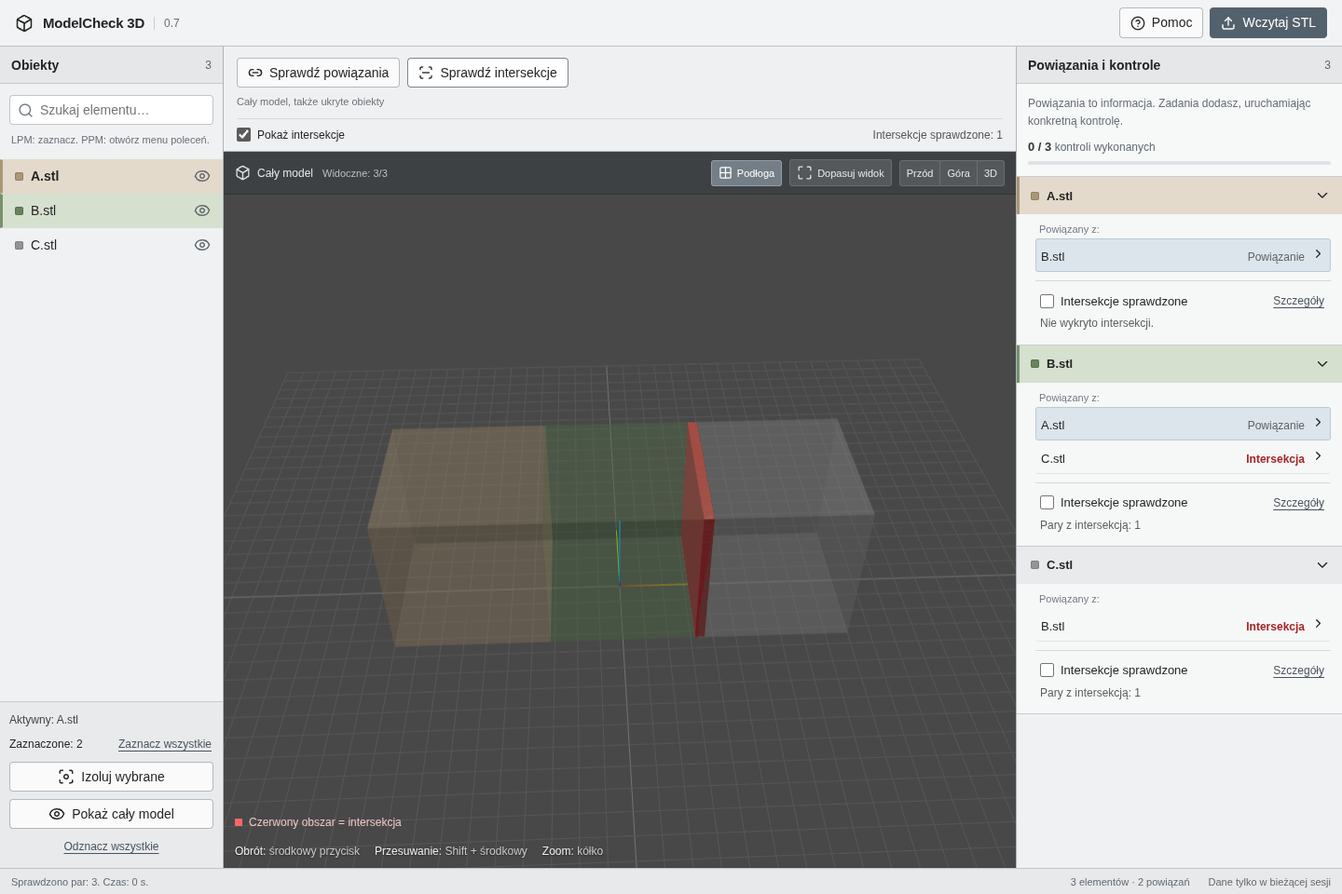
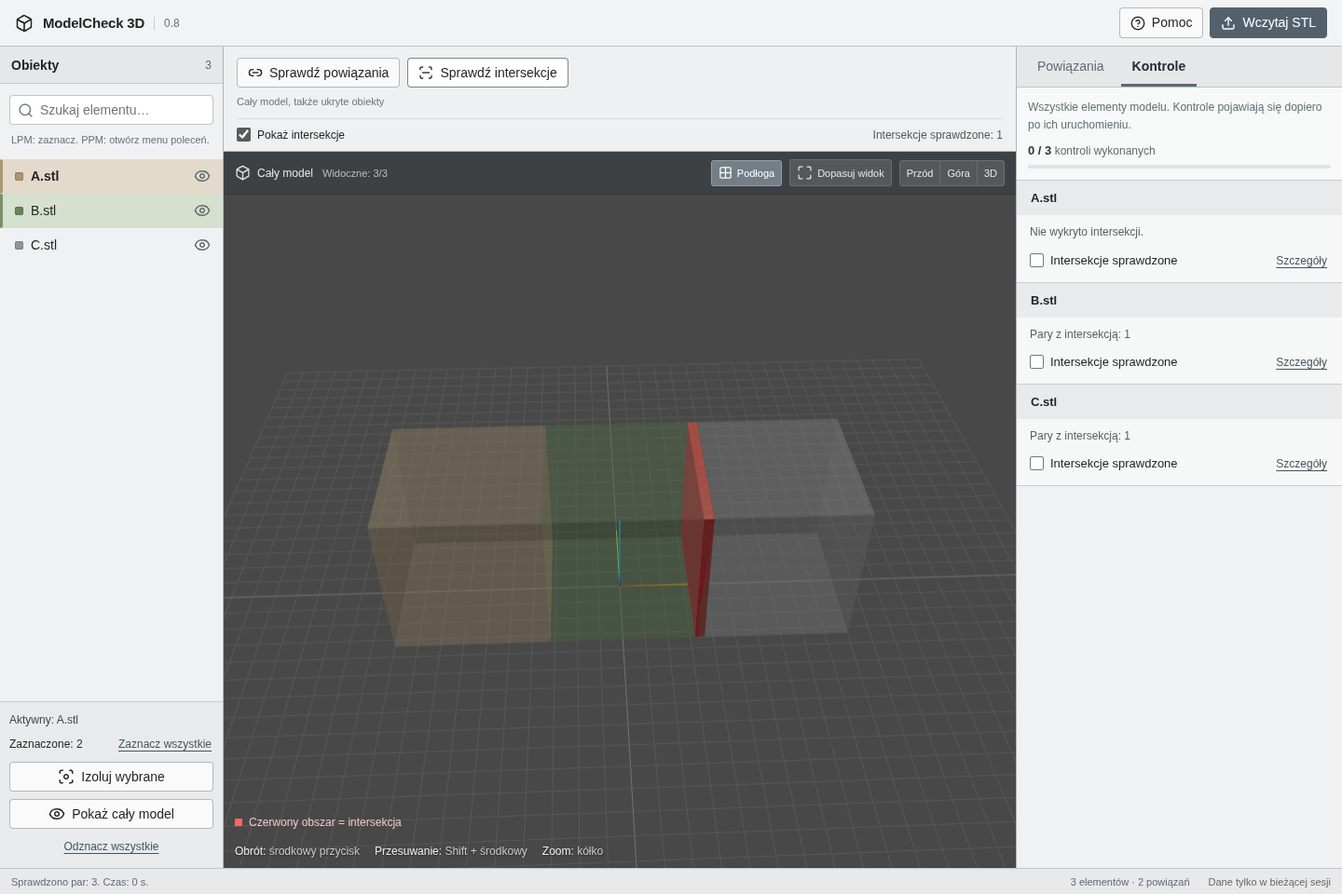
Separate connections and checks into tabs without changing model selection

diff --git a/frontend/src/App.tsx b/frontend/src/App.tsx
@@ -1,5 +1,5 @@
 import { useEffect, useRef, useState } from 'react';
-import { ArrowLeft, Box, ChevronDown, ChevronRight, CircleAlert, CircleHelp, Grid2X2, Link2, ScanLine, Upload, Eye, EyeOff, Focus, LoaderCircle, Maximize, Search, TriangleAlert, X } from 'lucide-react';
+import { ArrowLeft, Box, CircleAlert, CircleHelp, Grid2X2, Link2, ScanLine, Upload, Eye, EyeOff, Focus, LoaderCircle, Maximize, Search, TriangleAlert, X } from 'lucide-react';
 import { Viewer } from './Viewer';
 import { ObjectMenu } from './ObjectMenu';
 import type { ObjectMenuState } from './ObjectMenu';
@@ -39,7 +39,7 @@ export default function App() {
   const [error, setError] = useState('');
   const [notice, setNotice] = useState('');
   const [search, setSearch] = useState('');
-  const [expanded, setExpanded] = useState<Set<string>>(new Set());
+  const [panelTab, setPanelTab] = useState<'relations' | 'checks'>('relations');
   const [intersections, setIntersections] = useState(false);
   const [floor, setFloor] = useState(true);
   const [dragging, setDragging] = useState(false);
@@ -94,7 +94,6 @@ export default function App() {
 
   const addImported = async (result: Imported) => {
     setParts(previous => [...previous, ...result.parts.map(part => ({ ...part, visible: true }))]);
-    setExpanded(previous => new Set([...previous, ...result.parts.map(part => part.id)]));
     if (result.errors.length) setError(result.errors.map(item => `${item.name}: ${item.message}`).join('\n'));
     if (result.parts.length) {
       setNotice(`Wczytano ${result.parts.length} ${result.parts.length === 1 ? 'część' : 'części'}. Współrzędne STL zostały zachowane.`);
@@ -135,6 +134,7 @@ export default function App() {
       const result = await api<Job>(`/sessions/${session}/analysis`, { method: 'POST', headers: { 'Content-Type': 'application/json' }, body: JSON.stringify({ check }) });
       // Always poll once: a small model can finish before POST returns.
       setJob({ ...result, state: 'running' });
+      setPanelTab(check === 'INTERSECTIONS' ? 'checks' : 'relations');
     } catch (err) { setError((err as Error).message); }
     finally { setLoading(false); }
   }
@@ -143,18 +143,14 @@ export default function App() {
     setActiveTaskId(null);
     if (!id) { if (!multi) setSelection(previous => ({ ...previous, ids: [] })); return; }
     if (isolated && !isolated.includes(id)) setIsolated(null);
-    setExpanded(previous => new Set([...previous, id]));
-    requestAnimationFrame(() => document.getElementById(`check-${id}`)?.scrollIntoView({ block: 'nearest' }));
     setSelection(previous => {
       const ids = !multi ? [id] : previous.ids.includes(id) ? previous.ids.filter(item => item !== id) : [...previous.ids, id];
       return { ...previous, ids };
     });
   }
   function focusPair(relation: Relation) {
-    setActiveTaskId(null);
-    setActivePair(relation.id); setSelection(previous => ({ ...previous, ids: relation.part_ids })); setIsolated(relation.part_ids);
-    setParts(previous => previous.map(part => relation.part_ids.includes(part.id) ? { ...part, visible: true } : part));
-    requestAnimationFrame(() => viewer.current?.fit(relation.part_ids));
+    setActivePair(relation.id);
+    viewer.current?.fit(relation.part_ids);
   }
   function showAll() {
     setIsolated(null);
@@ -196,7 +192,6 @@ export default function App() {
     });
     return reviewQueue.current;
   }
-  const toggleExpanded = (id: string) => setExpanded(previous => { const next = new Set(previous); if (next.has(id)) next.delete(id); else next.add(id); return next; });
   const duplicateName = (part: Part) => parts.filter(other => other.name === part.name).length > 1 ? ` · ${parts.indexOf(part) + 1}` : '';
   const fitSelected = () => { if (selected.length) { setIsolated(selected); setParts(previous => previous.map(part => selected.includes(part.id) ? { ...part, visible: true } : part)); requestAnimationFrame(() => viewer.current?.fit(selected)); } };
 
@@ -206,6 +201,10 @@ export default function App() {
     if (!visible && isolated && !isolated.includes(part.id)) setIsolated([...isolated, part.id]);
   }
   const intersectionCount = relations.filter(row => row.kind === 'INTERSECTION').length;
+  const relatedPairs = relations.filter(row => row.kind !== 'DISCONNECTED').map(row => ({
+    relation: row,
+    parts: row.part_ids.map(id => parts.find(part => part.id === id)).sort((a, b) => (a?.name ?? '').localeCompare(b?.name ?? '', 'pl', { numeric: true })),
+  })).sort((a, b) => a.parts.map(part => part?.name).join(' / ').localeCompare(b.parts.map(part => part?.name).join(' / '), 'pl', { numeric: true }));
   const connectedCount = relations.filter(row => row.kind === 'CONNECTED' || row.kind === 'INTERSECTION').length;
   const uncertainCount = relations.filter(row => row.kind === 'UNCERTAIN').length;
 
@@ -217,7 +216,7 @@ export default function App() {
     <input type="file" ref={fileInput} accept=".stl" multiple hidden onChange={event => { if (event.target.files) void importFiles(event.target.files); }} />
 
     <header className="topbar">
-      <div className="brand"><Box size={20} /><strong>ModelCheck 3D</strong><span className="app-version">0.7</span></div>
+      <div className="brand"><Box size={20} /><strong>ModelCheck 3D</strong><span className="app-version">0.8</span></div>
       <div className="header-actions">
         <button className="button secondary help-button" onClick={() => setHelp(true)}><CircleHelp size={16} />Pomoc</button>
         <button className="button primary" disabled={busy || !session} onClick={() => fileInput.current?.click()}><Upload size={16} />Wczytaj STL</button>
@@ -292,40 +291,46 @@ export default function App() {
       </section>
 
       <aside className="checklist panel" aria-label="Powiązania i kontrole">
-        <div className="panel-heading"><h2>Powiązania i kontrole</h2><span className="count">{parts.length}</span></div>
-        <div className="checklist-intro"><p>Powiązania to informacja. Zadania dodasz, uruchamiając konkretną kontrolę.</p>{tasks.length > 0 && <div className="review-progress"><span><strong>{reviewed} / {tasks.length}</strong> kontroli wykonanych</span><div className="review-meter" aria-hidden="true"><span style={{ width: `${reviewed / tasks.length * 100}%` }} /></div></div>}</div>
-        <div className="checklist-content">
-          {!parts.length && <p className="empty-note">Tutaj znajdziesz wszystkie wczytane elementy i ich powiązania.</p>}
-          {parts.map(part => {
-            const all = relations.filter(row => row.part_ids.includes(part.id));
-            const otherName = (row: Relation) => parts.find(item => item.id === row.part_ids.find(id => id !== part.id))?.name ?? '';
-            const rows = all.filter(row => row.kind !== 'DISCONNECTED').sort((a, b) => otherName(a).localeCompare(otherName(b), 'pl', { numeric: true }));
-            const complete = all.length === parts.length - 1;
-            const isExpanded = expanded.has(part.id);
-            return <section className={`check-part ${selected.includes(part.id) ? 'highlight' : ''} ${activePartId === part.id ? 'active-part' : ''}`} key={part.id} id={`check-${part.id}`}>
-              <button className="check-part-heading" onClick={() => toggleExpanded(part.id)} aria-expanded={isExpanded}>
-                <span className="part-swatch" style={{ background: partColor(part.id, selected, activePartId) }} /><strong title={part.name}>{part.name}{duplicateName(part)}</strong>{isExpanded ? <ChevronDown size={18} /> : <ChevronRight size={18} />}
-              </button>
-              {isExpanded && <div className="check-part-relations">
-                {rows.length > 0 && <p className="relation-list-label">{rows.some(row => row.kind === 'UNCERTAIN') ? 'Powiązania i pary do weryfikacji:' : 'Powiązany z:'}</p>}
-                {rows.map(row => {
-                  const other = parts.find(item => item.id === row.part_ids.find(id => id !== part.id));
-                  return <button key={row.id} className={`relation-row ${activePair === row.id ? 'active' : ''}`} onClick={() => focusPair(row)}>
-                    <div className="relation-title"><strong title={other?.name}>{other?.name}{other ? duplicateName(other) : ''}</strong><span className={`relation-kind ${row.kind.toLowerCase()}`}>{row.kind === 'UNCERTAIN' || intersectionsReady ? labels[row.kind] : 'Powiązanie'}</span><ChevronRight size={15} /></div>
-
-                  </button>;
-                })}
-                {!rows.length && <p className="no-relations">{parts.length === 1 ? 'Brak innych elementów.' : complete ? 'Brak powiązań z innymi elementami.' : all.length ? 'Brak powiązań w sprawdzonej grupie.' : 'Uruchom sprawdzanie powiązań.'}</p>}
-                {rows.length > 0 && !complete && <p className="partial-analysis">Pozostałe pary nie zostały jeszcze sprawdzone.</p>}
-                {tasks.filter(task => task.part_id === part.id).map(task => <div className="check-task" key={task.id}>
-                  <div className="task-line"><label><input type="checkbox" aria-label={`Intersekcje: ${part.name} — sprawdzone`} checked={task.done} disabled={busy || task.stale} onChange={event => void reviewTask(task, event.target.checked, task.note)} />Intersekcje sprawdzone</label><button className="text-button" aria-label={`Szczegóły kontroli ${part.name}`} onClick={() => setActiveTaskId(task.id)}>Szczegóły</button></div>
-                  <p className={task.stale || task.result === 'UNCERTAIN' ? 'task-warning' : ''}>{taskResult(task)}</p>
-                </div>)}
-              </div>}
-            </section>;
-          })}
+        <div className="result-tabs" role="tablist" aria-label="Wyniki modelu" onKeyDown={event => {
+          const tabs = [...event.currentTarget.querySelectorAll<HTMLButtonElement>('[role=tab]')];
+          const index = tabs.indexOf(document.activeElement as HTMLButtonElement);
+          const next = event.key === 'Home' ? 0 : event.key === 'End' ? tabs.length - 1 : event.key === 'ArrowRight' ? (index + 1) % tabs.length : event.key === 'ArrowLeft' ? (index + tabs.length - 1) % tabs.length : -1;
+          if (next >= 0) { event.preventDefault(); tabs[next].focus(); tabs[next].click(); }
+        }}>
+          <button id="relations-tab" role="tab" aria-selected={panelTab === 'relations'} aria-controls="relations-panel" tabIndex={panelTab === 'relations' ? 0 : -1} onClick={() => setPanelTab('relations')}>Powiązania</button>
+          <button id="checks-tab" role="tab" aria-selected={panelTab === 'checks'} aria-controls="checks-panel" tabIndex={panelTab === 'checks' ? 0 : -1} onClick={() => setPanelTab('checks')}>Kontrole</button>
         </div>
-        {activeTask && activeTaskPart && <TaskCard task={activeTask} part={activeTaskPart} disabled={!!busy} onReview={(done, note) => void reviewTask(activeTask, done, note)} onClose={() => setActiveTaskId(null)} />}
+        <section id="relations-panel" className="result-panel" role="tabpanel" aria-labelledby="relations-tab" hidden={panelTab !== 'relations'}>
+          <div className="checklist-intro"><p>Każda para jest pokazana raz. „Pokaż parę” dopasowuje tylko kamerę.</p></div>
+          <div className="checklist-content pair-list">
+            {relatedPairs.map(({ relation: row, parts: pair }) => {
+              const name = (part: Part | undefined) => part ? part.name + duplicateName(part) : 'Usunięty element';
+              const visible = pair.every(part => part?.visible && (!isolated || isolated.includes(part.id)));
+              return <div className={`relation-row ${activePair === row.id ? 'active' : ''}`} key={row.id}>
+                <div className="pair-names"><span title={name(pair[0])}>{name(pair[0])}</span><span className="pair-connector">↔</span><span title={name(pair[1])}>{name(pair[1])}</span></div>
+                <div className="pair-actions"><span className={`relation-kind ${row.kind === 'UNCERTAIN' || intersectionsReady ? row.kind.toLowerCase() : 'connected'}`}>{row.kind === 'UNCERTAIN' || intersectionsReady ? labels[row.kind] : 'Powiązanie'}</span><button className="button" aria-label={`Pokaż parę ${name(pair[0])} i ${name(pair[1])}`} title={visible ? 'Dopasuj kamerę bez zaznaczania i ukrywania części' : 'Najpierw pokaż obie części na lewej liście'} disabled={!visible} onClick={() => focusPair(row)}><Focus size={14} />Pokaż parę</button></div>
+              </div>;
+            })}
+            {!relations.some(row => row.kind !== 'DISCONNECTED') && <p className="empty-note">{!parts.length ? 'Wczytaj model, aby sprawdzić powiązania.' : parts.length === 1 ? 'Brak innych elementów.' : relations.length === parts.length * (parts.length - 1) / 2 ? 'Brak powiązań z innymi elementami.' : 'Uruchom „Sprawdź powiązania”, aby zobaczyć listę par.'}</p>}
+          </div>
+        </section>
+        <section id="checks-panel" className="result-panel" role="tabpanel" aria-labelledby="checks-tab" hidden={panelTab !== 'checks'}>
+          <div className="checklist-intro"><p>Wszystkie elementy modelu. Kontrole pojawiają się dopiero po ich uruchomieniu.</p>{tasks.length > 0 && <div className="review-progress"><span><strong>{reviewed} / {tasks.length}</strong> kontroli wykonanych</span><div className="review-meter" aria-hidden="true"><span style={{ width: `${reviewed / tasks.length * 100}%` }} /></div></div>}</div>
+          <div className="checklist-content">
+            {!parts.length && <p className="empty-note">Wczytane elementy pojawią się tutaj.</p>}
+            {parts.map(part => <section className="check-part" key={part.id} id={`check-${part.id}`}>
+              <div className="check-part-heading"><strong title={part.name}>{part.name}{duplicateName(part)}</strong></div>
+              <div className="part-checks">
+                {!tasks.some(task => task.part_id === part.id) && <p className="no-checks">Nie uruchomiono kontroli.</p>}
+                {tasks.filter(task => task.part_id === part.id).map(task => <div className="check-task" key={task.id}>
+                  <p className={task.stale || task.result === 'UNCERTAIN' ? 'task-warning' : ''}>{taskResult(task)}</p>
+                  <div className="task-line"><label><input type="checkbox" aria-label={`Intersekcje: ${part.name} — sprawdzone`} checked={task.done} disabled={busy || task.stale} onChange={event => void reviewTask(task, event.target.checked, task.note)} />Intersekcje sprawdzone</label><button className="text-button" aria-label={`Szczegóły kontroli ${part.name}`} onClick={() => setActiveTaskId(task.id)}>Szczegóły</button></div>
+                </div>)}
+              </div>
+            </section>)}
+          </div>
+          {activeTask && activeTaskPart && <TaskCard task={activeTask} part={activeTaskPart} disabled={!!busy} onReview={(done, note) => void reviewTask(activeTask, done, note)} onClose={() => setActiveTaskId(null)} />}
+        </section>
       </aside>
     </main>
 
@@ -333,6 +338,6 @@ export default function App() {
     {objectMenu && parts.some(part => part.id === objectMenu.id) && <ObjectMenu menu={objectMenu} name={parts.find(part => part.id === objectMenu.id)!.name} disabled={!!busy} onClose={() => setObjectMenu(null)} onActivate={() => { setSelection(previous => ({ ...previous, activeId: objectMenu.id })); setObjectMenu(null); }} onDelete={() => void removePart(objectMenu.id)} />}
     {error && <div className="error-message" role="alert"><TriangleAlert size={20} /><span>{error}</span><button className="icon-button" title="Zamknij komunikat" onClick={() => setError('')}><X size={20} /></button></div>}
     {dragging && <div className="drop-overlay"><h2>Upuść pliki STL</h2><p>Każdy plik to osobny element modelu.</p></div>}
-    {help && <div className="modal-backdrop" onClick={() => setHelp(false)}><section className="help-dialog" role="dialog" aria-modal="true" aria-label="Jak obsługiwać aplikację" onClick={event => event.stopPropagation()}><button className="icon-button close-modal" title="Zamknij pomoc" onClick={() => setHelp(false)}><X size={22} /></button><h2>Jak sprawdzić model?</h2><ol><li>Wczytaj osobne pliki STL. Elementy pozostają w oryginalnym położeniu.</li><li>Kliknij <strong>Sprawdź powiązania</strong>. Lista po prawej pokaże, które części są ze sobą powiązane.</li><li>Kliknij <strong>Sprawdź intersekcje</strong>. Powstaną zadania do ręcznego odhaczenia przy każdym elemencie. Przełącznik <strong>Pokaż intersekcje</strong> zmienia tylko widoczność wyniku.</li><li>Powiązania są informacyjne. Kliknięcie pary pokazuje ją w 3D. Odhaczasz wyłącznie uruchomione kontrole; ich szczegóły zawierają notatkę.</li></ol><h3>Sterowanie jak w Blenderze</h3><dl><dt>Środkowy przycisk myszy</dt><dd>Obrót</dd><dt>Shift + środkowy przycisk</dt><dd>Przesuwanie</dd><dt>Kółko</dt><dd>Zoom</dd><dt>Shift + klik</dt><dd>Wybór wielu części</dd></dl><p>Przycisk „Podłoga” nad widokiem 3D ukrywa siatkę i osie. Nie zmienia położenia ani wyników analizy modelu.</p><p>Analiza zawsze obejmuje wszystkie wczytane części, także ukryte. Zaznaczenie i izolacja zmieniają tylko widok.</p><p>LPM zaznacza części. PPM na lewej liście otwiera menu. Polecenie „Aktywuj” aktywuje obiekt i oznacza go beżowo także w 3D. Inne zaznaczone części są zielone, pozostałe szare.</p><p>Powiązanie oznacza, że części bezpośrednio się łączą. Intersekcja oznacza, że jedna część wchodzi w drugą. O poprawności decydujesz sam.</p><div className="help-note"><CircleAlert size={20} /><span>Pracujemy w milimetrach. Odświeżenie strony usuwa bieżącą sesję; zapis projektu nie jest jeszcze dostępny.</span></div><button className="button primary wide" onClick={() => setHelp(false)}>Rozumiem</button></section></div>}
+    {help && <div className="modal-backdrop" onClick={() => setHelp(false)}><section className="help-dialog" role="dialog" aria-modal="true" aria-label="Jak obsługiwać aplikację" onClick={event => event.stopPropagation()}><button className="icon-button close-modal" title="Zamknij pomoc" onClick={() => setHelp(false)}><X size={22} /></button><h2>Jak sprawdzić model?</h2><ol><li>Wczytaj osobne pliki STL. Elementy pozostają w oryginalnym położeniu.</li><li>Kliknij <strong>Sprawdź powiązania</strong>. Zakładka „Powiązania” pokaże listę par bez zaznaczania części w 3D.</li><li>Kliknij <strong>Sprawdź intersekcje</strong>. Powstaną zadania do ręcznego odhaczenia przy każdym elemencie. Przełącznik <strong>Pokaż intersekcje</strong> zmienia tylko widoczność wyniku.</li><li>Powiązania są informacyjne. Przycisk „Pokaż parę” dopasowuje tylko kamerę, bez zaznaczania i ukrywania części. Obie części muszą być widoczne. W osobnej zakładce „Kontrole” odhaczasz uruchomione kontrole; szczegóły zawierają notatkę.</li></ol><h3>Sterowanie jak w Blenderze</h3><dl><dt>Środkowy przycisk myszy</dt><dd>Obrót</dd><dt>Shift + środkowy przycisk</dt><dd>Przesuwanie</dd><dt>Kółko</dt><dd>Zoom</dd><dt>Shift + klik</dt><dd>Wybór wielu części</dd></dl><p>Przycisk „Podłoga” nad widokiem 3D ukrywa siatkę i osie. Nie zmienia położenia ani wyników analizy modelu.</p><p>Analiza zawsze obejmuje wszystkie wczytane części, także ukryte. Zaznaczenie i izolacja zmieniają tylko widok.</p><p>LPM zaznacza części. PPM na lewej liście otwiera menu. Polecenie „Aktywuj” aktywuje obiekt i oznacza go beżowo także w 3D. Inne zaznaczone części są zielone, pozostałe szare.</p><p>Powiązanie oznacza, że części bezpośrednio się łączą. Intersekcja oznacza, że jedna część wchodzi w drugą. O poprawności decydujesz sam.</p><div className="help-note"><CircleAlert size={20} /><span>Pracujemy w milimetrach. Odświeżenie strony usuwa bieżącą sesję; zapis projektu nie jest jeszcze dostępny.</span></div><button className="button primary wide" onClick={() => setHelp(false)}>Rozumiem</button></section></div>}
   </div>;
 }

diff --git a/frontend/tests/workflow.spec.ts b/frontend/tests/workflow.spec.ts
@@ -85,16 +85,33 @@ test('model ABC: full analysis and independent viewport selection and list activ
   await expect(page.locator('.analysis-heading')).toContainText('Powiązania znalezione');
   await expect(page.locator('.statusbar')).toContainText('Sprawdzono par: 3');
   await expect(page.locator('.check-part')).toHaveCount(3);
-  await expect(page.locator('.relation-row')).toHaveCount(4);
+  await expect(page.locator('.relation-row')).toHaveCount(2);
   await expect(page.locator('.check-task')).toHaveCount(0);
   await expect(page.locator('.checklist input[type=checkbox]')).toHaveCount(0);
   await expect(page.locator('.review-progress')).toHaveCount(0);
   await expect(page.getByLabel('Pokaż intersekcje', { exact: true })).toBeDisabled();
-  // Informational connections can still be inspected, without any manual rating.
-  await page.locator('.relation-row').first().click();
-  await expect(page.locator('.scene-label')).toContainText('Wybrane elementy');
+  // Browsing either tab and clicking pair text must leave the 3D state untouched.
+  await expect(page.getByRole('tab', { name: 'Powiązania', exact: true })).toHaveAttribute('aria-selected', 'true');
+  await page.waitForTimeout(500);
+  const beforeTabs = await canvas.screenshot();
+  await page.getByRole('tab', { name: 'Kontrole', exact: true }).click();
+  await expect(page.locator('.no-checks')).toHaveCount(3);
+  await page.getByRole('tab', { name: 'Kontrole', exact: true }).press('ArrowLeft');
+  await expect(page.getByRole('tab', { name: 'Powiązania', exact: true })).toBeFocused();
+  await page.locator('.pair-names').first().click();
+  expect(Buffer.compare(beforeTabs, await canvas.screenshot()), 'Browsing must not move the camera or recolor models').toBe(0);
+  await page.getByRole('button', { name: 'Pokaż parę A.stl i B.stl', exact: true }).click();
+  await page.waitForTimeout(400);
+  expect(Buffer.compare(beforeTabs, await canvas.screenshot()), 'Explicit pair action must fit the camera').not.toBe(0);
+  await expect(page.locator('.scene-label')).toContainText('Cały model');
+  await expect(page.locator('.scene-label')).toContainText('Widoczne: 3/3');
+  await expect(a).toHaveAttribute('data-selection', 'active');
+  await expect(b).toHaveAttribute('data-selection', 'selected');
+  await expect(c).toHaveAttribute('data-selection', 'idle');
+  await expect(page.locator('.exit-isolation')).toHaveCount(0);
   await expect(page.locator('.review-card')).toHaveCount(0);
-  await page.getByRole('button', { name: 'Wróć do całego modelu' }).click();
+  await page.screenshot({ path: testInfo.outputPath('relations.png') });
+  await page.getByTitle('Dopasuj kamerę do widocznych części').click();
   const intersectionResponse = page.waitForResponse(response => response.url().includes('/intersection') && response.ok());
   await page.getByRole('button', { name: 'Sprawdź intersekcje', exact: true }).click();
   await expect(page.locator('.check-task')).toHaveCount(3);
@@ -107,12 +124,18 @@ test('model ABC: full analysis and independent viewport selection and list activ
   await page.getByLabel('Pokaż intersekcje', { exact: true }).uncheck();
   await page.getByLabel('Pokaż intersekcje', { exact: true }).check();
   await expect(page.locator('.check-task')).toHaveCount(3);
-  await page.locator('.relation-row').filter({ hasText: 'Intersekcja' }).first().click();
-  await expect(page.locator('.scene-label')).toContainText('Widoczne: 2/3');
+  await page.getByRole('tab', { name: 'Powiązania', exact: true }).click();
+  await page.getByRole('button', { name: 'Pokaż parę B.stl i C.stl', exact: true }).click();
+  await expect(page.locator('.scene-label')).toContainText('Widoczne: 3/3');
+  await expect(c).toHaveAttribute('data-selection', 'idle');
+  await page.getByRole('tab', { name: 'Kontrole', exact: true }).click();
   await expect(page.locator('.review-card')).toHaveCount(0);
   const bTask = page.getByRole('checkbox', { name: 'Intersekcje: B.stl — sprawdzone', exact: true });
   const cTask = page.getByRole('checkbox', { name: 'Intersekcje: C.stl — sprawdzone', exact: true });
   await bTask.check();
+  await expect(a).toHaveAttribute('data-selection', 'active');
+  await expect(b).toHaveAttribute('data-selection', 'selected');
+  await expect(c).toHaveAttribute('data-selection', 'idle');
   await expect(page.locator('.review-progress strong')).toHaveText('1 / 3');
   await expect(cTask).not.toBeChecked();
   await page.getByRole('button', { name: 'Szczegóły kontroli B.stl', exact: true }).click();
@@ -125,9 +148,10 @@ test('model ABC: full analysis and independent viewport selection and list activ
   await expect(page.getByLabel('Kontrola wykonana', { exact: true })).not.toBeChecked();
   await page.getByRole('button', { name: 'Szczegóły kontroli B.stl', exact: true }).click();
   await expect(page.getByLabel('Notatka do kontroli', { exact: true })).toHaveValue('Sprawdzono intersekcje elementu B');
-  await page.getByRole('button', { name: 'Wróć do całego modelu' }).click();
   await page.getByTitle('Ukryj A.stl').click();
   await expect(page.locator('.scene-label')).toContainText('Widoczne: 2/3');
+  await page.getByRole('tab', { name: 'Powiązania', exact: true }).click();
+  await expect(page.getByRole('button', { name: 'Pokaż parę A.stl i B.stl', exact: true })).toBeDisabled();
   await page.getByRole('button', { name: 'Sprawdź powiązania' }).click();
   await expect(page.locator('.analysis-heading')).toContainText('Powiązania znalezione');
   await expect(page.locator('.statusbar')).toContainText('Sprawdzono par: 3');
@@ -181,8 +205,9 @@ test('separated parts are not proposed as related; all elements remain on checkl
   await expect(page.getByRole('status')).toContainText('Sprawdzono par: 3');
   await expect(page.locator('.relation-row')).toHaveCount(0);
   await expect(page.locator('.check-part')).toHaveCount(3);
-  await expect(page.locator('.no-relations')).toHaveCount(3);
-  await expect(page.getByText('Brak powiązań z innymi elementami.', { exact: true })).toHaveCount(3);
+  await expect(page.getByText('Brak powiązań z innymi elementami.', { exact: true })).toHaveCount(1);
+  await page.getByRole('tab', { name: 'Kontrole', exact: true }).click();
+  await expect(page.locator('.no-checks')).toHaveCount(3);
   await expect(page.getByText(/szczelin|styki|styk/i)).toHaveCount(0);
   await page.locator('.object-row').filter({ hasText: 'left.stl' }).locator('.object-select').click();
   await page.locator('.object-row').filter({ hasText: 'right.stl' }).locator('.object-select').click({ modifiers: ['Shift'] });

diff --git a/frontend/src/style.css b/frontend/src/style.css
@@ -98,23 +98,13 @@ progress { display: block; width: 100%; height: 7px; margin-top: 8px; accent-col
 .checklist-content { flex: 1; min-height: 80px; overflow: auto; }
 .check-part { border-bottom: 1px solid #c8cdd1; }
 .check-part-heading { width: 100%; display: flex; align-items: center; gap: 8px; padding: 11px 12px; text-align: left; background: #e8eaec; border-left: 3px solid transparent; }
-.check-part-heading:hover { background: #dfe3e6; }
 .check-part-heading > strong { flex: 1; min-width: 0; overflow: hidden; text-overflow: ellipsis; font-size: 13px; font-weight: 600; }
-.check-part.highlight .check-part-heading { background: #d6e0cf; border-left-color: #78916a; }
-.check-part.active-part .check-part-heading { background: #e3dacb; border-left-color: #aa9674; }
-.check-part-relations { padding: 2px 12px 9px 20px; background: #f6f7f7; }
-.relation-list-label { color: #727b83; font-size: 11px; padding: 8px 4px 4px; }
-.relation-row { width: 100%; padding: 8px 5px; border: 1px solid transparent; border-bottom-color: #e0e3e5; text-align: left; border-radius: 3px; }
+.relation-row { padding: 14px 12px; border-bottom: 1px solid #d4d9dd; }
 .relation-row:last-child { border-bottom-color: transparent; }
-.relation-row:hover { background: #e6eaed; }
-.relation-row.active { background: #dce5ec; border-color: #bacad7; }
-.relation-title { display: flex; align-items: baseline; gap: 7px; }
-.relation-title > strong { flex: 1; min-width: 0; overflow: hidden; text-overflow: ellipsis; font-size: 13px; font-weight: 400; }
+.relation-row.active { background: #e5ebef; }
 .relation-kind { font-size: 12px; color: #626262; flex-shrink: 0; }
 .relation-kind.intersection { color: #a52525; font-weight: 600; }
 .relation-kind.uncertain { color: #865b16; }
-.no-relations, .partial-analysis { font-size: 12px; line-height: 1.6; color: #666; padding: 8px 5px; }
-.partial-analysis { color: #7b622c; }
 .review-card { padding: 14px; border-top: 1px solid #aeb6bc; background: #f6f7f7; max-height: 48%; overflow: auto; flex-shrink: 0; }
 .review-heading { display: flex; align-items: center; justify-content: space-between; }
 .review-heading h3 { font-size: 14px; font-weight: 600; }
@@ -160,7 +150,7 @@ progress { display: block; width: 100%; height: 7px; margin-top: 8px; accent-col
   .welcome p { margin-bottom: 12px; }
 }
 
-.check-task { padding: 10px 5px 3px; margin-top: 9px; border-top: 1px solid #d4d9dd; }
+.check-task { padding: 0; }
 .task-line { display: flex; gap: 8px; justify-content: space-between; align-items: center; }
 .task-line label, .task-confirm { display: flex; align-items: center; gap: 7px; font-size: 13px; }
 .check-task p { font-size: 12px; color: #5d5d5d; line-height: 1.6; margin-top: 4px; }
@@ -180,3 +170,18 @@ progress { display: block; width: 100%; height: 7px; margin-top: 8px; accent-col
 .review-meter { height: 4px; margin-top: 8px; background: #dde2e5; border-radius: 2px; overflow: hidden; }
 .review-meter > span { display: block; height: 100%; background: #7a906b; }
 @media (max-width: 1300px) { .viewport-toolbar .scene-label { flex-basis: 100%; } .exit-isolation { top: 84px; } }
+
+.result-tabs { display: flex; flex-shrink: 0; border-bottom: 1px solid #bdc4ca; background: #e5e7e9; padding: 0 10px; gap: 6px; }
+.result-tabs [role=tab] { padding: 13px 12px 11px; border-bottom: 3px solid transparent; color: #636c73; }
+.result-tabs [role=tab][aria-selected=true] { color: #252c31; border-bottom-color: #596b78; font-weight: 600; }
+.result-tabs [role=tab]:hover { background: #edf0f2; }
+.result-panel { display: flex; flex: 1; flex-direction: column; min-height: 0; }
+.result-panel[hidden] { display: none; }
+.pair-names { display: flex; align-items: center; gap: 8px; font-size: 13px; line-height: 1.5; }
+.pair-names > span:not(.pair-connector) { flex: 1; min-width: 0; overflow-wrap: anywhere; }
+.pair-connector { color: #89939b; }
+.pair-actions { display: flex; align-items: center; justify-content: space-between; gap: 10px; margin-top: 10px; }
+.pair-actions .button { font-size: 12px; min-height: 28px; padding: 4px 8px; }
+.part-checks { padding: 0 14px 12px; background: #f6f7f7; }
+.no-checks { font-size: 12px; color: #79828a; padding-top: 10px; }
+.check-task p { margin-top: 0; padding: 9px 0; }

diff --git a/backend/main.py b/backend/main.py
@@ -15,7 +15,7 @@ from starlette.concurrency import run_in_threadpool
 from pydantic import BaseModel, Field, ConfigDict
 from backend.geometry import prepare, analyze_pair, CONNECTION_EPS
 
-app = FastAPI(title='ModelCheck 3D', version='0.7.0')
+app = FastAPI(title='ModelCheck 3D', version='0.8.0')
 executor = ThreadPoolExecutor(max_workers=1)
 sessions = {}
 lock = RLock()

diff --git a/README.md b/README.md
@@ -1,6 +1,6 @@
-# ModelCheck 3D — prototyp 0.7
+# ModelCheck 3D — prototyp 0.8
 
-Lokalna aplikacja do sprawdzania **powiązań części STL i intersekcji**. Widok 3D działa podobnie do Blendera, a checklista zawiera wszystkie wczytane elementy. Interfejs jest prostym edytorem z systemową czcionką, szarymi panelami i płaskimi przyciskami. Numer wersji 0.7 jest widoczny w nagłówku. Usunięto osobne kategorie styków i szczelin, ich znaczniki oraz próg odległości.
+Lokalna aplikacja do sprawdzania **powiązań części STL i intersekcji**. Widok 3D działa podobnie do Blendera, a checklista zawiera wszystkie wczytane elementy. Interfejs jest prostym edytorem z systemową czcionką, szarymi panelami i płaskimi przyciskami. Numer wersji 0.8 jest widoczny w nagłówku. Usunięto osobne kategorie styków i szczelin, ich znaczniki oraz próg odległości.
 
 ![Uproszczony interfejs: lista elementów, model 3D i powiązania części](docs/modelcheck3d.png)
 
@@ -13,7 +13,7 @@ Wymagane: **Python 3.12, 64-bit** z launcherem `py` oraz **Node.js 22 lub 24** z
 3. Uruchom `start.cmd`. Aplikacja otworzy się w przeglądarce.
 4. Pozostaw okno serwera otwarte. Ctrl+C kończy jego pracę.
 
-**Aktualizacja ze starszej wersji:** zakończ poprzedni serwer klawiszami Ctrl+C w jego oknie, rozpakuj nowy ZIP do osobnego folderu i uruchom w nim `setup.cmd`, a potem `start.cmd`. W nagłówku otwartej aplikacji powinno być **0.7**. Stary działający proces nie wczyta automatycznie nowego silnika analizy.
+**Aktualizacja ze starszej wersji:** zakończ poprzedni serwer klawiszami Ctrl+C w jego oknie, rozpakuj nowy ZIP do osobnego folderu i uruchom w nim `setup.cmd`, a potem `start.cmd`. W nagłówku otwartej aplikacji powinno być **0.8**. Stary działający proces nie wczyta automatycznie nowego silnika analizy.
 
 Jeżeli poprzednia kopia nadal zajmuje port 8000, nowy launcher wybierze wolny port i otworzy nową kopię. Korzystaj z okna przeglądarki otwartego przez nowy `start.cmd`; stara zakładka pozostaje połączona z poprzednią wersją. Adres nowej kopii jest również wypisywany w oknie uruchamiania. Strona startowa nie jest przechowywana w pamięci podręcznej przeglądarki.
 
@@ -34,9 +34,9 @@ Pakiety silnika są dostępne dla Windows / Python 3.12 x64. Bieżący prototyp 
 ## Jak sprawdzić model
 
 1. **Wczytaj STL** — wybierz osobne pliki części lub przeciągnij je do okna. Zachowujemy ich współrzędne i skalę; 1 jednostka STL = 1 mm.
-2. **Sprawdź powiązania** — program informuje, które części bezpośrednio się łączą. Lista „Powiązany z” jest wyłącznie informacyjna: nie ma ocen OK, notatek do par ani obowiązku odhaczania połączeń. Kliknięcie pary pozwala obejrzeć ją w izolacji. Wszystkie wczytane elementy pozostają na liście, również bez połączeń.
-3. **Sprawdź intersekcje** — uruchamia konkretną kontrolę. Dopiero wtedy przy każdym elemencie pojawia się zadanie **Intersekcje sprawdzone**. Wynik mówi o wykrytych intersekcjach, ich braku lub niepewności. Żadne zadanie nie odhacza się automatycznie.
-4. Po ręcznej kontroli elementu odhacz jego zadanie. **Szczegóły** otwierają wynik i notatkę dotyczącą kontroli tego elementu. Każdy element ma własne zadanie; sprawdzenie B nie odhacza C.
+2. **Sprawdź powiązania** — program informuje, które części bezpośrednio się łączą. Zakładka **Powiązania** zawiera każdą parę raz. Lista jest informacyjna i nie zmienia zaznaczenia, kolorów, widoczności ani kamery. Osobny przycisk **Pokaż parę** dopasowuje wyłącznie kamerę; obie części muszą być widoczne, inaczej przycisk jest niedostępny. Powiązania nie mają ocen, notatek ani odhaczeń.
+3. **Sprawdź intersekcje** — uruchamia konkretną kontrolę. Otwiera osobną zakładkę **Kontrole**, w której zawsze są wszystkie wczytane elementy. Dopiero po uruchomieniu kontroli przy każdym elemencie pojawia się zadanie **Intersekcje sprawdzone**. Wynik mówi o wykrytych intersekcjach, ich braku lub niepewności. Żadne zadanie nie odhacza się automatycznie.
+4. Po ręcznej kontroli elementu odhacz jego zadanie. Przeglądanie kontroli, odhaczanie i notatki nie zmieniają widoku 3D ani zaznaczenia. Zakładki można przełączać myszą lub strzałkami klawiatury. **Szczegóły** otwierają wynik i notatkę dotyczącą kontroli tego elementu. Każdy element ma własne zadanie; sprawdzenie B nie odhacza C.
 5. **Pokaż intersekcje** zmienia tylko widoczność wyników już uruchomionej kontroli. Czerwona, matowa geometria pokazuje wspólną objętość. Otaczające części są przezroczyste, by odsłonić wnętrze. Samo przełączanie widoczności nie tworzy dodatkowych zadań.
 6. **Pokaż cały model** przywraca wszystkie części i dopasowuje kamerę do całości.
 
@@ -45,6 +45,8 @@ Oba polecenia analizy obejmują zawsze cały model, również ukryte części. Z
 Ponowne uruchomienie kontroli na niezmienionych danych zachowuje odhaczenia i notatki. Dodanie lub usunięcie części oznacza wcześniejsze zadania jako **nieaktualne**, usuwa ich odhaczenia i blokuje ponowne odhaczanie do czasu uruchomienia kontroli. Notatki istniejących elementów pozostają. Nowy element otrzyma zadanie dopiero po uruchomieniu kontroli.
 
 W pustym widoku dostępny jest przykład A/B/C: A łączy się z B, B z C, B–C mają intersekcję, A i C są rozdzielone.
+
+![Osobna zakładka powiązań: jedna pozycja na parę i jawny przycisk dopasowania kamery](docs/relations.png)
 
 ## Menu obiektu i kolory
 
@@ -63,7 +65,7 @@ Lewy przycisk zaznacza, Shift + klik dodaje lub odejmuje części. Nie aktywuje 
 | Nieaktywny i zaznaczony | Przygaszony zielony |
 | Aktywny | Beżowy |
 
-W wersji 0.7 kolory są nieco jaśniejsze. Materiały mają maksymalną chropowatość, bez metaliczności. Oświetlenie i odwzorowanie tonalne ograniczają jaskrawość; intersekcje pozostają matowo czerwone.
+Kolory są nieco jaśniejsze niż w wersji 0.6. Materiały mają maksymalną chropowatość, bez metaliczności. Oświetlenie i odwzorowanie tonalne ograniczają jaskrawość; intersekcje pozostają matowo czerwone.
 
 ![Jaśniejsze, matowe kolory elementów i uporządkowane panele](docs/selection.png)
 
@@ -71,7 +73,7 @@ W wersji 0.7 kolory są nieco jaśniejsze. Materiały mają maksymalną chropowa
 
 Przycisk **Podłoga** na pasku widoku 3D włącza lub wyłącza siatkę podłogi razem z osiami. Zmienia tylko podgląd; nie przesuwa modelu ani nie zmienia wyników kontroli. Dopasowanie kamery nie włącza ponownie wyłączonej podłogi. Ustawienie obowiązuje do odświeżenia strony.
 
-Interfejs 0.7 ma jaśniejsze panele, większe odstępy i spokojniejsze obramowania. Pasek sterowania widokiem jest oddzielony od poleceń analizy. Aktywne i zaznaczone części mają kolorowe znaczniki na listach, a checklista pokazuje również pasek postępu ręcznego sprawdzania.
+Interfejs 0.8 ma jaśniejsze panele, większe odstępy i spokojniejsze obramowania. Pasek sterowania widokiem jest oddzielony od poleceń analizy. Aktywne i zaznaczone części mają kolorowe znaczniki na lewej liście. Prawy panel rozdziela informacyjne powiązania i checklistę kontroli; jego obsługa nie zaznacza elementów w 3D. Checklista pokazuje również pasek postępu ręcznego sprawdzania.
 
 ## Sterowanie
 
